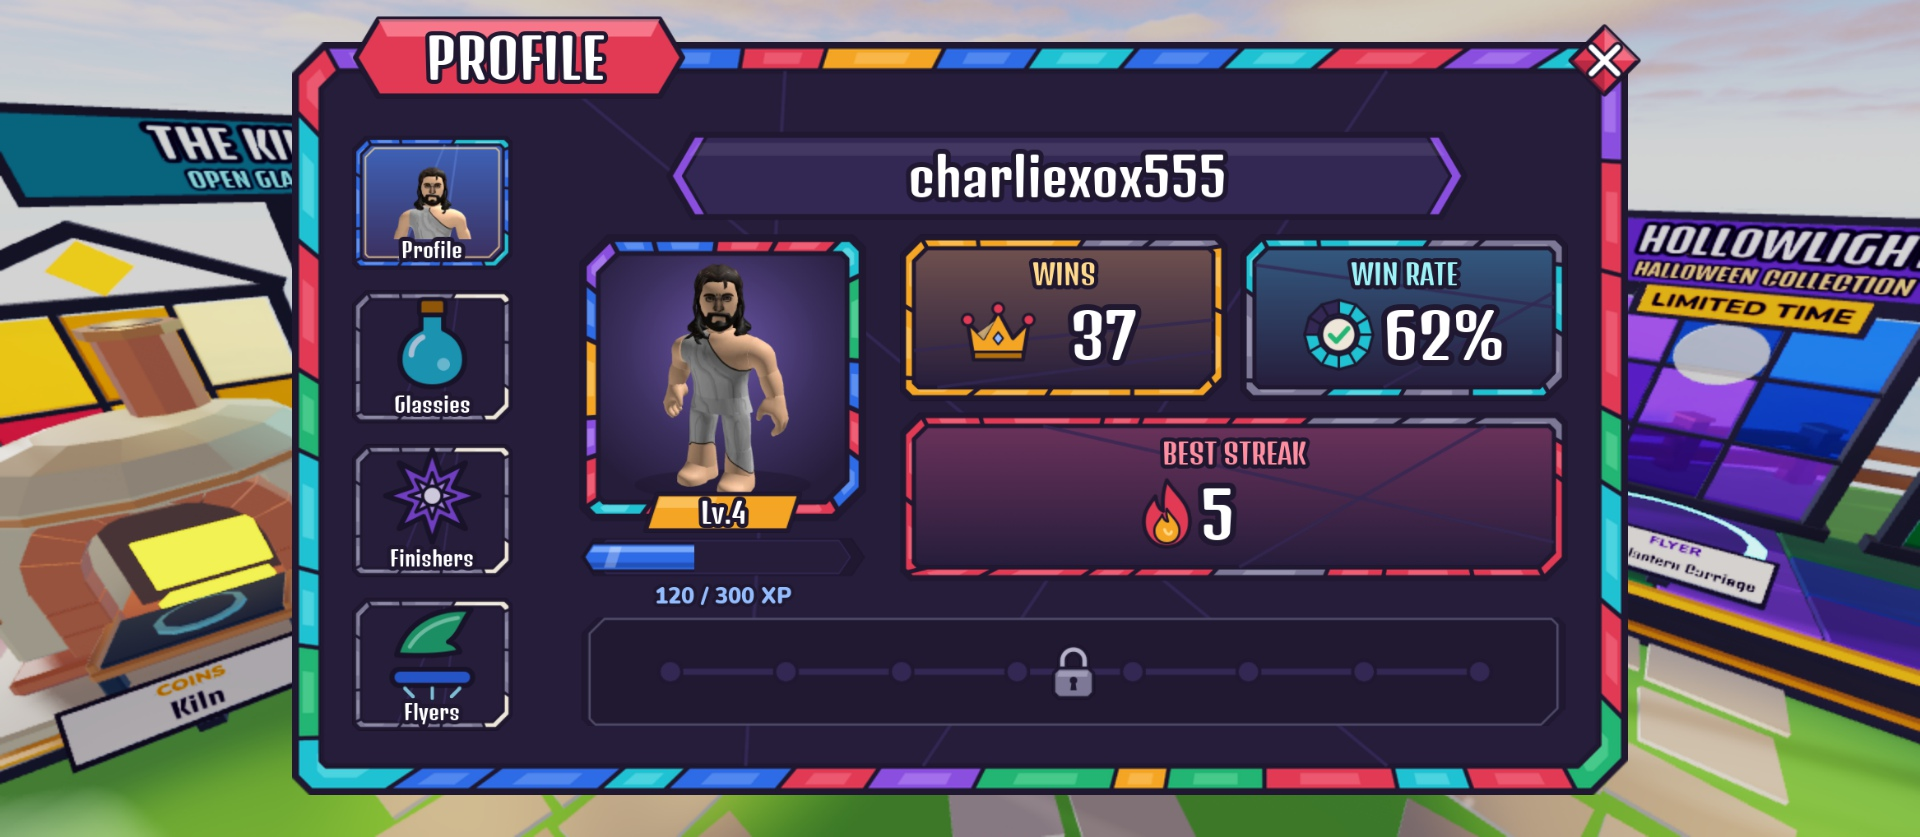
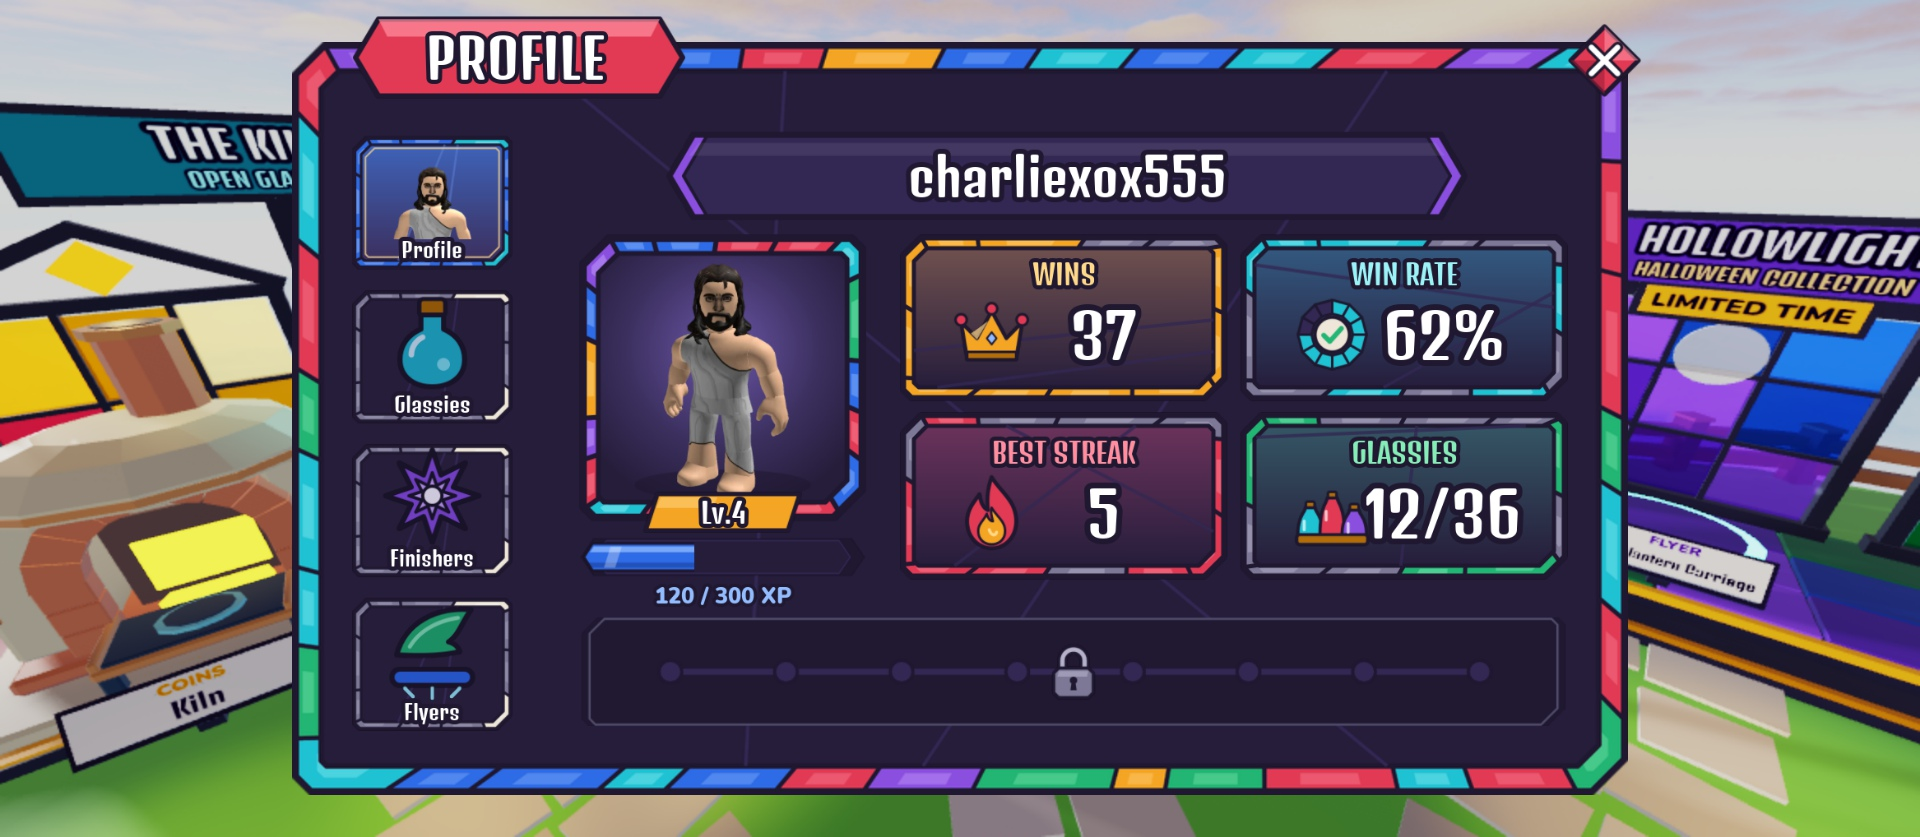
ProfileScreen design v2: 2x2 stats with a Glassies collection tile, another player's profile view, lobby tap bubble mock

Changed region(s): [[0.4688, 0.497, 0.8125, 0.7145], [0.6562, 0.3417, 0.7188, 0.4349], [0.5, 0.3417, 0.5625, 0.4349]]

diff --git a/tools/ui/profile_art.py b/tools/ui/profile_art.py
@@ -66,6 +66,8 @@ def stat_tile(w, h, key, sd):
 A["stat_amber"] = stat_tile(400, 205, "amber", 51)
 A["stat_aqua"] = stat_tile(400, 205, "aqua", 52)
 A["stat_ruby_wide"] = stat_tile(810, 205, "ruby", 53)
+A["stat_ruby"] = stat_tile(400, 205, "ruby", 54)
+A["stat_emerald"] = stat_tile(400, 205, "emerald", 55)
 
 # XP bar (600x84): leaded track with pointed ends and a sapphire glass fill (the fill is drawn full-length and
 # clipped by its parent frame's width at runtime).
@@ -163,6 +165,29 @@ def arrow_badge():
               + '<path d="%s" fill="none" stroke="#FFFFFF" stroke-width="6" stroke-linecap="round" stroke-linejoin="round"/>' % arrow)
 
 
+def collection():
+    """The collection count: three glassies side by side on a little shelf."""
+    s = '<rect x="6" y="100" width="116" height="16" rx="5" fill="%s" stroke="%s" stroke-width="5"/>' % (P["amber"][2], P["lead"])
+    for x, col, h in ((28, P["aqua"], 44), (64, P["ruby"], 60), (100, P["amethyst"], 40)):
+        top = 100 - h
+        s += '<rect x="%d" y="%d" width="14" height="12" rx="3" fill="%s" stroke="%s" stroke-width="4"/>' % (x - 7, top - 10, P["amber"][2], P["lead"])
+        s += '<path d="M%d %d H%d C%d %d %d %d %d 100 H%d C%d %d %d %d %d %d Z" fill="%s" stroke="%s" stroke-width="5" stroke-linejoin="round"/>' % (
+            x - 8, top, x + 8, x + 8, top + 8, x + 20, top + 12, x + 20, x - 20, x - 20, top + 12, x - 8, top + 8, x - 8, top, col[0], P["lead"])
+        s += '<path d="M%d %d v14" stroke="#FFFFFF" stroke-width="5" stroke-linecap="round" stroke-opacity="0.7"/>' % (x - 10, top + 22)
+    return SV(128, 128, s)
+
+
+def bubble():
+    """Tap bubble over another player in the lobby: a sapphire ring for their headshot with a pointer underneath."""
+    ring = '<circle cx="80" cy="74" r="66" fill="%s" stroke="%s" stroke-width="8"/>' % (P["sapphire"][0], P["lead"])
+    ring += '<circle cx="80" cy="74" r="52" fill="%s" stroke="%s" stroke-width="5"/>' % (P["viewport"], P["lead"])
+    ring += '<path d="M34 34 A62 62 0 0 1 96 12" fill="none" stroke="%s" stroke-width="7" stroke-linecap="round" stroke-opacity="0.8"/>' % P["sapphire"][1]
+    tip = poly([[62, 136], [98, 136], [80, 168]], P["sapphire"][0], LEAD(6))
+    return SV(160, 176, tip + ring)
+
+
+A["icon_collection"] = collection()
+A["bubble_profile"] = bubble()
 A["icon_crown"] = crown()
 A["icon_winrate"] = winrate()
 A["icon_flame"] = flame()

diff --git a/docs/ui/screens/ProfileScreen.md b/docs/ui/screens/ProfileScreen.md
@@ -1,7 +1,7 @@
 # ProfileScreen (top bar → Profile)
 
 Design only (Oct 20): no controller, no remotes, no XP yet. Placeholder data: Lv.4, 120 / 300 XP, 37 wins, 62%, best
-streak 5. It's a regular-size Stained Glass window with the same footprint as Inventory (Panel `0.86 × 0.9` of the
+streak 5, 12/36 glassies. It's a regular-size Stained Glass window with the same footprint as Inventory (Panel `0.86 × 0.9` of the
 screen, aspect 1.773, Scale only). It has a **ruby** title banner ("PROFILE"), so it stands apart from Inventory
 (sapphire), Daily (amber), Settings and Playtime (aqua) and Codes (amethyst).
 
@@ -10,9 +10,27 @@ its level, and stat tiles). The art is our own kit.
 
 Rebuild with `tools/studio/build_profile_screen.luau` (Studio Edit, lock held). It copies the old screen to
 `ServerStorage.UIBackup_Topbar.ProfileScreen` and then replaces `StarterGui.ProfileScreen`. Art comes from
-`tools/ui/profile_art.py` (17 pieces, keys `screens/profile/*` in `Config/UIAssets`).
+`tools/ui/profile_art.py` (21 pieces, keys `screens/profile/*` in `Config/UIAssets`).
 
 ![Profile page](ProfileScreen.jpg)
+
+Creator answers (Oct 20): option A (read-only grids; equipping stays in the Inventory), a 4th stat tile for the
+collection count, other players' profiles open read-only, no Trophies tile, no level over players' heads.
+
+## Someone else's profile
+
+The same read-only screen filled with the other player's data (their headshot on the Profile tab, name, level, stats
+and collection grids). Set `VIEWER = "Other"` in the build script to preview it (sample: builderman).
+
+It opens two ways:
+- **In the lobby:** tap (or click) another player and a sapphire bubble with their headshot pops over their head for a
+  few seconds (`bubble_profile`). Tap the bubble to open their profile. Two taps, so dragging the camera on a phone
+  doesn't open profiles by accident.
+- **On a leaderboard:** tap a row.
+
+| Another player's profile | Lobby tap bubble (mock) |
+|---|---|
+| ![other](ProfileScreen_other.jpg) | ![lobby tap](ProfileScreen_lobby_tap.jpg) |
 
 ## Top bar button
 
@@ -50,12 +68,6 @@ Set `VARIANT = "Jump"` at the top of the build script to build option B. `PAGE =
 | `ProfilePage.Portrait.Level.Text` | TextLabel | "Lv.N" on an amber tag riding the portrait's bottom edge |
 | `ProfilePage.Xp` | Frame | attributes `Xp`, `XpNext`. `Track` + `Fill` (its width = Xp / XpNext × 0.98; the `Fill.Art` inside keeps full length) |
 | `ProfilePage.XpText` | TextLabel | "120 / 300 XP" (attribute `Format`) |
-| `ProfilePage.Wins` / `WinRate` / `BestStreak` | Frame | stat tiles: `Art`, `Label`, `Icon` (crown / win dial / flame), `Value` |
+| `ProfilePage.Wins` / `WinRate` / `BestStreak` / `Collection` | Frame | 2 × 2 stat tiles: `Art`, `Label`, `Icon` (crown / win dial / flame / three glassies), `Value`. `Collection` reads "12/36" (attribute `Format`) |
 | `ProfilePage.LevelRewards` | Frame | **empty for now**: a dim strip with faint stepping stones and a lock. `Track` is where level reward cells go later |
 | `Content.GlassiesPage` / `FinishersPage` / `FlyersPage` | Frame | option A only. `Count.Text` ("12 / 36") and `Grid.Tiles` (UIGridLayout, 5 per row, tiles cloned at runtime) |
-
-## Open questions (asked in the main session)
-
-The XP numbers and level speed, whether old profiles get back-filled XP, option A or B, whether other players'
-profiles open, extra stats (Trophies, Shatters, collection count), the headshot top bar icon, and whether the level
-shows anywhere else.
